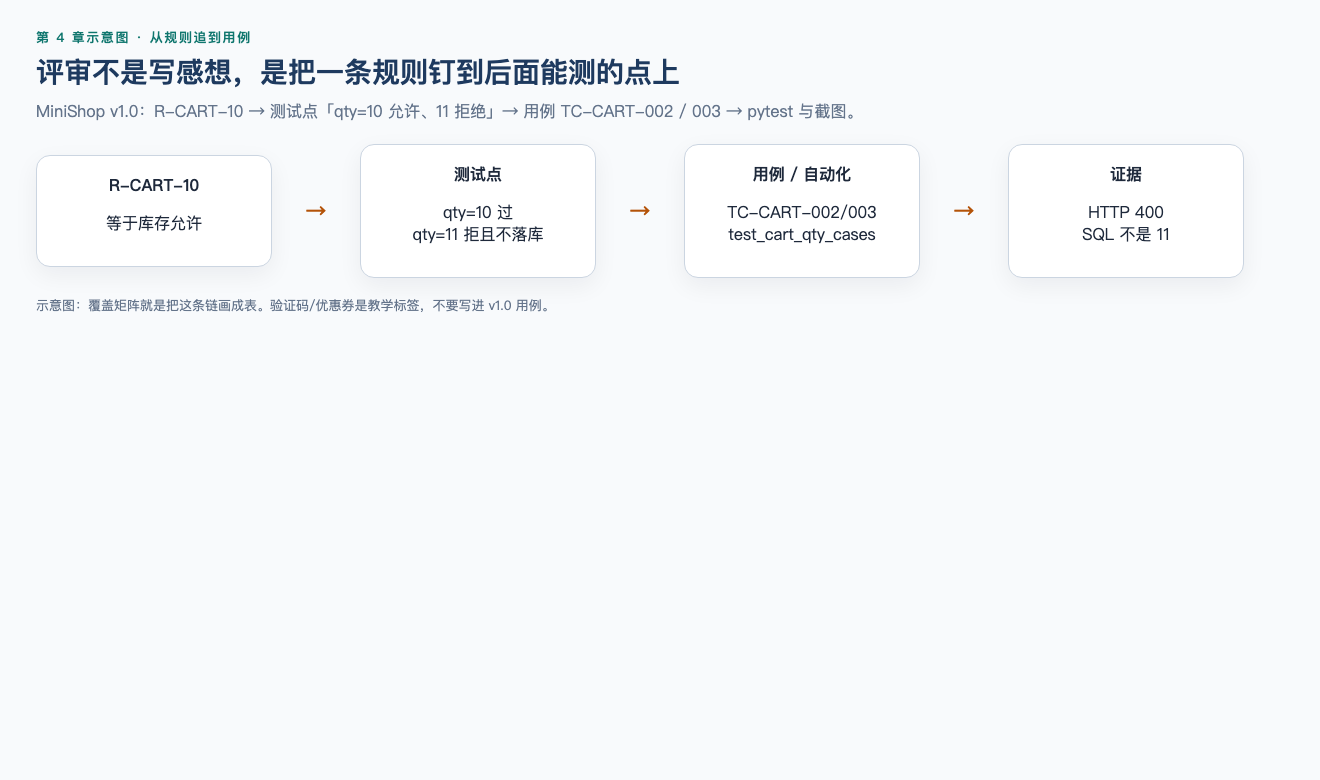
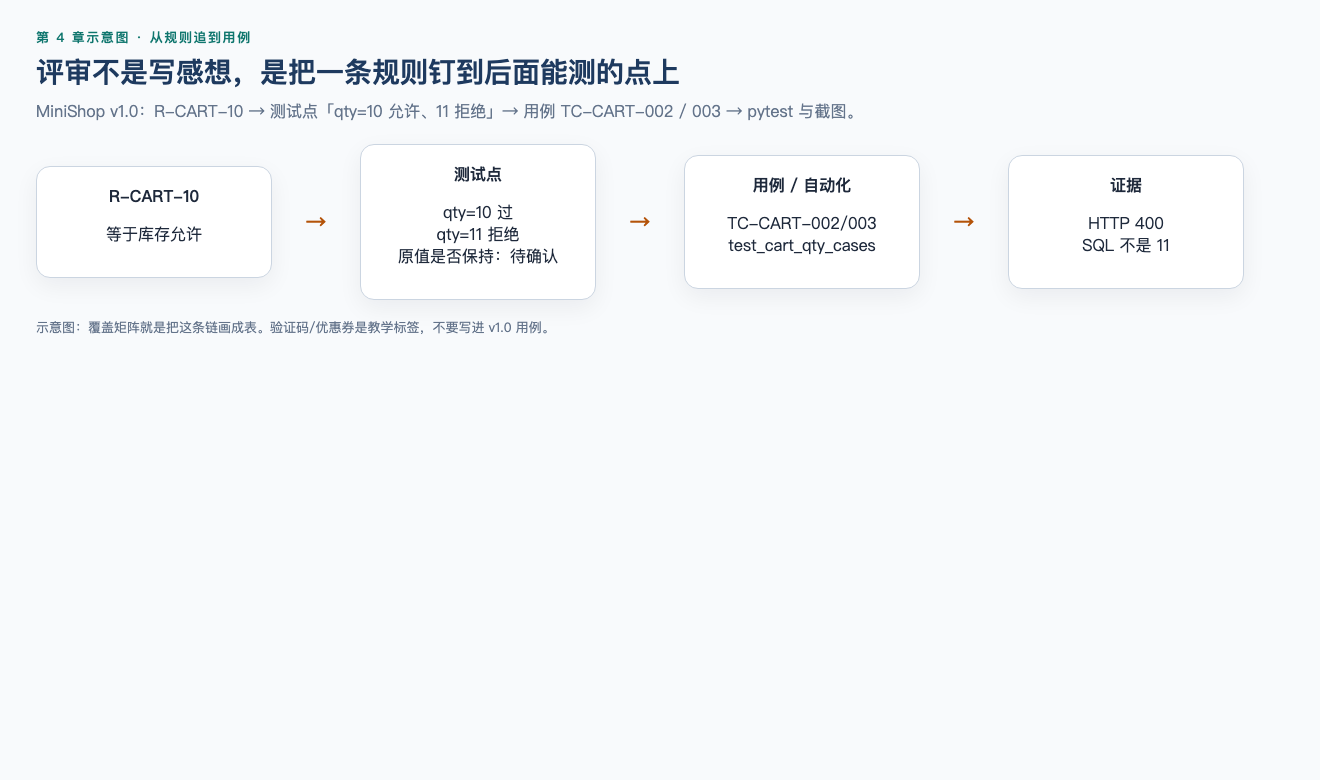
fix(ch04): use one requirement-review template
Add an 已确认规则 section. Do not treat 不落库 as a frozen PRD cell.
Note that requirement testability is not ISO 25010 Testability.

diff --git a/chapters/assets/diagrams/ch04-four-terms.html b/chapters/assets/diagrams/ch04-four-terms.html
@@ -4,6 +4,6 @@
 <p class="kicker">第 4 章示意图 · 四个容易混的词</p>
 <h1>依据、需求、条件、用例，一层比一层更可执行</h1>
 <p class="lead">企业模板名字会变。课程要保住的是：每条测试都能追到依据，并且能判断过/不过。</p>
-<div class="row"><div class="col card"><span class="tag tag-info">测试依据</span><h2>根据什么来测</h2><p style="font-size:16px;line-height:1.55">PRD、原型、OpenAPI、已确认规则</p></div><div class="col card"><span class="tag tag-ok">测试需求</span><h2>要验证哪些要求</h2><p style="font-size:16px;line-height:1.55">购物车数量不能超过可售库存</p></div><div class="col card"><span class="tag tag-warn">测试条件 / 点</span><h2>检查哪个角度</h2><p style="font-size:16px;line-height:1.55">等于库存、超过库存、库存变化</p></div><div class="col card"><span class="tag tag-bad">测试用例</span><h2>怎么做、怎样算过</h2><p style="font-size:16px;line-height:1.55">库存 10，输入 11，应拒绝并保持原值</p></div></div>
+<div class="row"><div class="col card"><span class="tag tag-info">测试依据</span><h2>根据什么来测</h2><p style="font-size:16px;line-height:1.55">PRD、原型、OpenAPI、已确认规则</p></div><div class="col card"><span class="tag tag-ok">测试需求</span><h2>要验证哪些要求</h2><p style="font-size:16px;line-height:1.55">购物车数量不能超过可售库存</p></div><div class="col card"><span class="tag tag-warn">测试条件 / 点</span><h2>检查哪个角度</h2><p style="font-size:16px;line-height:1.55">等于库存、超过库存、库存变化</p></div><div class="col card"><span class="tag tag-bad">测试用例</span><h2>怎么做、怎样算过</h2><p style="font-size:16px;line-height:1.55">库存 10，输入 11，应拒绝。失败后原值是否保持：PRD 未写则待确认</p></div></div>
 <p class="caption">示意图：测试点还不一定有完整步骤。写成用例之后，别人才能量着做。</p>
 </div></body></html>

diff --git a/chapters/assets/diagrams/ch04-trace.html b/chapters/assets/diagrams/ch04-trace.html
@@ -8,7 +8,7 @@
     <div class="row" style="align-items:center">
       <div class="col card" style="text-align:center"><b>R-CART-10</b><p>等于库存允许</p></div>
       <div class="vs">→</div>
-      <div class="col card" style="text-align:center"><b>测试点</b><p>qty=10 过<br>qty=11 拒且不落库</p></div>
+      <div class="col card" style="text-align:center"><b>测试点</b><p>qty=10 过<br>qty=11 拒绝<br>原值是否保持：待确认</p></div>
       <div class="vs">→</div>
       <div class="col card" style="text-align:center"><b>用例 / 自动化</b><p>TC-CART-002/003<br>test_cart_qty_cases</p></div>
       <div class="vs">→</div>

diff --git a/chapters/assets/diagrams/ch04-testable.html b/chapters/assets/diagrams/ch04-testable.html
@@ -23,7 +23,7 @@
         <li>数量必须是正整数</li>
         <li>不得超过该 SKU <strong>当前</strong>可售库存</li>
         <li>等于库存允许（10 件时 qty=10 过、11 拒绝）</li>
-        <li>失败时保持原值并给出原因</li>
+        <li>失败如何提示、原值是否保持：PRD 未写 → 记待确认</li>
       </ol>
     </div>
   </div>

diff --git a/chapters/04b-minishop-requirement-review.md b/chapters/04b-minishop-requirement-review.md
@@ -156,47 +156,7 @@ R-CART-05 修改失败时提示用户。
 
 ## MiniShop 工作实战：需求评审包
 
-选择注册、登录或购物车之一，提交以下四份内容：
-
-1. 功能流程和业务对象；
-2. 需求问题清单；
-3. 七类场景测试点；
-4. 需求—测试点追踪表。
-
-建议保存为：
-
-```text
-exercises/chapter-04-minishop-requirement-review.md
-```
-
-交付模板：
-
-```markdown
-# MiniShop 需求评审记录
-
-## 基本信息
-- 需求名称：
-- 需求版本：
-- 评审范围：
-- 参与角色：
-- 日期：
-
-## 已确认规则
-| 需求 ID | 规则 | 来源 |
-| --- | --- | --- |
-
-## 问题清单
-| ID | 位置 | 类型 | 级别 | 问题 | 影响 | 责任人 | 状态 | 关闭证据 |
-| --- | --- | --- | --- | --- | --- | --- | --- | --- |
-
-## 测试点
-| ID | 场景类型 | 前置/触发 | 检查点 | 依据 | 状态 |
-| --- | --- | --- | --- | --- | --- |
-
-## 追踪关系
-| 需求 ID | 测试点 ID | 备注 |
-| --- | --- | --- |
-```
+提交一份记录：直接复制 [`practice/04-requirement-review/template.md`](../practice/04-requirement-review/template.md)，存为 `exercises/chapter-04-minishop-requirement-review.md`。不要另做第二套表。选注册、登录或购物车之一即可。
 
 完成标准与实操 4-1 相同（不要另立一套合格线）：
 
@@ -206,10 +166,14 @@ exercises/chapter-04-minishop-requirement-review.md
 4. 有需求 ID → 测试点 ID 的追踪表；
 5. **没有**把验证码、优惠券、订单状态机、8～20 位密码写进 v1.0 已确认规则。
 
-若评审的是 04B 教学草案，8 个问题 / 15 个测试点可作为加分，不是唯一合格线。没有阻塞项就写判断依据，不要虚构。
+评 v1.0 时，「已确认规则」只许抄 `project/minishop/docs/PRD.md` 已有句；评教学草案则该表可空。若评审的是 04B 教学草案，8 个问题 / 15 个测试点可作为加分，不是唯一合格线。没有阻塞项就写判断依据，不要虚构。
 
+对照仓库时分清两层：
 
-对照仓库正式评审：`project/minishop/docs/requirement-review.md` 与覆盖矩阵 `docs/prd-coverage-matrix.md`。
+- 已确认规则：只看 `project/minishop/docs/PRD.md`
+- 测试证据：`docs/requirement-review.md`、`docs/prd-coverage-matrix.md`
+
+覆盖矩阵把 qty=11 的「不落库」标成实现观察（接口拒绝后库中不是 11），不是 PRD 原文。`R-CART-10` 只写了「拒绝」。把「不落库」或 HTTP 400 写进作业「已确认规则」不合格。
 
 评审时仍用第 4 章（上）的三张示意图当尺子：句子能不能测（`ch04-testable.png`）、问题属于歧义/遗漏/矛盾（`ch04-three-problems.png`）、场景抽屉有没有漏（`ch04-seven-scenes.png`）。v1.0 正式规则以 PRD 为准，不要把教学验证码/优惠券写进本项目用例。
 
@@ -264,7 +228,7 @@ exercises/chapter-04-minishop-requirement-review.md
 
 ### 练习 9（实操）
 
-使用本章模板完成一份 MiniShop 注册、登录或购物车需求评审包，并检查是否达到量化完成标准。
+复制实操 4-1 的 `template.md`，完成一份 MiniShop 注册、登录或购物车需求评审记录，并按 4-1 五条验收自检。不要另做第二套表。
 
 ### 练习 10
 
@@ -289,7 +253,7 @@ exercises/chapter-04-minishop-requirement-review.md
 
 ### 答案 9
 
-开放实操题。合格证据跟实操 4-1：版本声明、至少 5 条分类问题、四类场景、追踪表，且不把验证码等写进 v1.0 已确认规则。
+开放实操题。合格证据跟实操 4-1：版本声明、至少 5 条分类问题、四类场景、追踪表，且不把验证码等写进 v1.0 已确认规则。覆盖矩阵里的「不落库」不是 PRD 原文，抄进去不合格。
 
 ### 答案 10
 
@@ -313,7 +277,7 @@ exercises/chapter-04-minishop-requirement-review.md
 ## 参考资料
 
 - [04A](04a-requirements-static-testing.md)
-- `project/minishop/docs/prd-coverage-matrix.md`
+- `project/minishop/docs/prd-coverage-matrix.md`（测试证据，不是 PRD；「不落库」勿抄进已确认规则）
 
 ## 下一章预告
 

diff --git a/chapters/04a-requirements-static-testing.md b/chapters/04a-requirements-static-testing.md
@@ -199,7 +199,7 @@ PRD（Product Requirements Document，产品需求文档）没有全球统一格
 
 ## 4.8 需求可测试性 ⭐⭐⭐
 
-可测试性意味着要求能够用可行的方法验证，并能判断通过或失败。
+可测试性意味着要求能够用可行的方法验证，并能判断通过或失败。这里的「需求可测试」问的是这句话能不能写成可观察的通过/失败标准，对象是需求句子；它不是 ISO/IEC 25010:2023 可维护性（Maintainability）子特性 Testability（产品是否容易建立并执行测试）。
 
 ![「可以修改」还不能测，要写成可观察的规则](assets/diagrams/ch04-testable.png)
 
@@ -345,24 +345,21 @@ PRD（Product Requirements Document，产品需求文档）没有全球统一格
 ![从规则追到用例和证据](assets/diagrams/ch04-trace.png)
 
 
-假设已确认规则（**本章教学规则**，用于练习从规则抽出测试点；v1.0 无价格/小计字段，正式契约以第 19 章 PRD 为准）：
+已确认规则只写 PRD `R-CART` / `R-CART-10` 已经有的三句（正式契约以 `project/minishop/docs/PRD.md` 为准）：
 
-> 登录用户可以修改自己购物车中在售商品的数量；数量必须是正整数且不得超过提交时可售库存。修改成功后保存新数量；失败时保持原值并提示原因。教学示例里还可以检查“小计是否重算”，那是为了练习数据场景，不代表 MiniShop 已有金额字段。
+> 登录用户可以修改自己购物车中的数量；数量必须是正整数且不得超过该 SKU 当前可售库存。教学库存为 10 时，`qty=10` 允许、`qty=11` 拒绝。
 
 可以得到测试点：
 
 - 修改为合法正整数；
 - 修改为 1；
-- 修改为等于可售库存；
+- 修改为等于可售库存（10 允许）；
 - 修改为 0、负数、小数、空值、文字；
-- 修改为超过可售库存；
-- 提交前库存发生变化；
-- 商品已下架；
+- 修改为超过可售库存（11 拒绝）；
 - 未登录或登录失效；
-- 尝试修改他人购物车条目；
-- 修改成功后小计与总价重算（教学数据场景，**非** MiniShop v1.0）；
-- 修改失败后原值保持；
-- 刷新或重新登录后数据保持一致。
+- 尝试修改他人购物车条目。
+
+下面这些 **PRD 未写，记待确认，不要当成已冻结预期**：失败如何提示、失败后原值是否保持、小计/总价、商品下架。教学示例若要练「小计重算」，单独标明通用练习系统，不要写进 MiniShop 用例。
 
 这里只列“测什么”，尚未写完整步骤和预期结果。第 5 章再使用等价类、边界值等技术设计用例。
 

diff --git a/practice/04-requirement-review/template.md b/practice/04-requirement-review/template.md
@@ -12,6 +12,15 @@
 - 本次评什么：
 - 明确不评 / 不是 v1.0 的：
 
+## 已确认规则
+
+> 评 PRD v1.0：只抄 `project/minishop/docs/PRD.md` 已有句。来源只能是 PRD，不能是 04B 教学草案，也不能是覆盖矩阵。验证码 / 优惠券 / 8～20 / 订单状态机 / 失败保持原值 / 不落库 / HTTP 400 一律不准填进本表。
+> 评教学草案：本表可空，问题写在下面清单里。
+
+| 需求 ID | 规则（原文或忠实转述） | 来源（PRD 条款 / 草案编号） |
+| --- | --- | --- |
+|  |  |  |
+
 ## 问题清单
 
 | ID | 原文或位置 | 类型（歧义/遗漏/矛盾/不可测试） | 建议澄清问题 | 状态 |

diff --git a/practice/04-requirement-review/README.md b/practice/04-requirement-review/README.md
@@ -26,3 +26,5 @@ exercises/chapter-04-minishop-requirement-review.md
 3. 七类场景里至少覆盖功能、异常、边界、权限四类测试点
 4. 有需求 ID → 测试点 ID 的追踪表
 5. **没有**把验证码、优惠券、订单状态机、8～20 位密码写进 v1.0 已确认规则
+
+评 v1.0 时，模板「已确认规则」只许抄 `project/minishop/docs/PRD.md` 已有句。覆盖矩阵里的「不落库」、HTTP 400、失败保持原值都不是 PRD 原文，不要抄进该表。评教学草案则该表可空。
